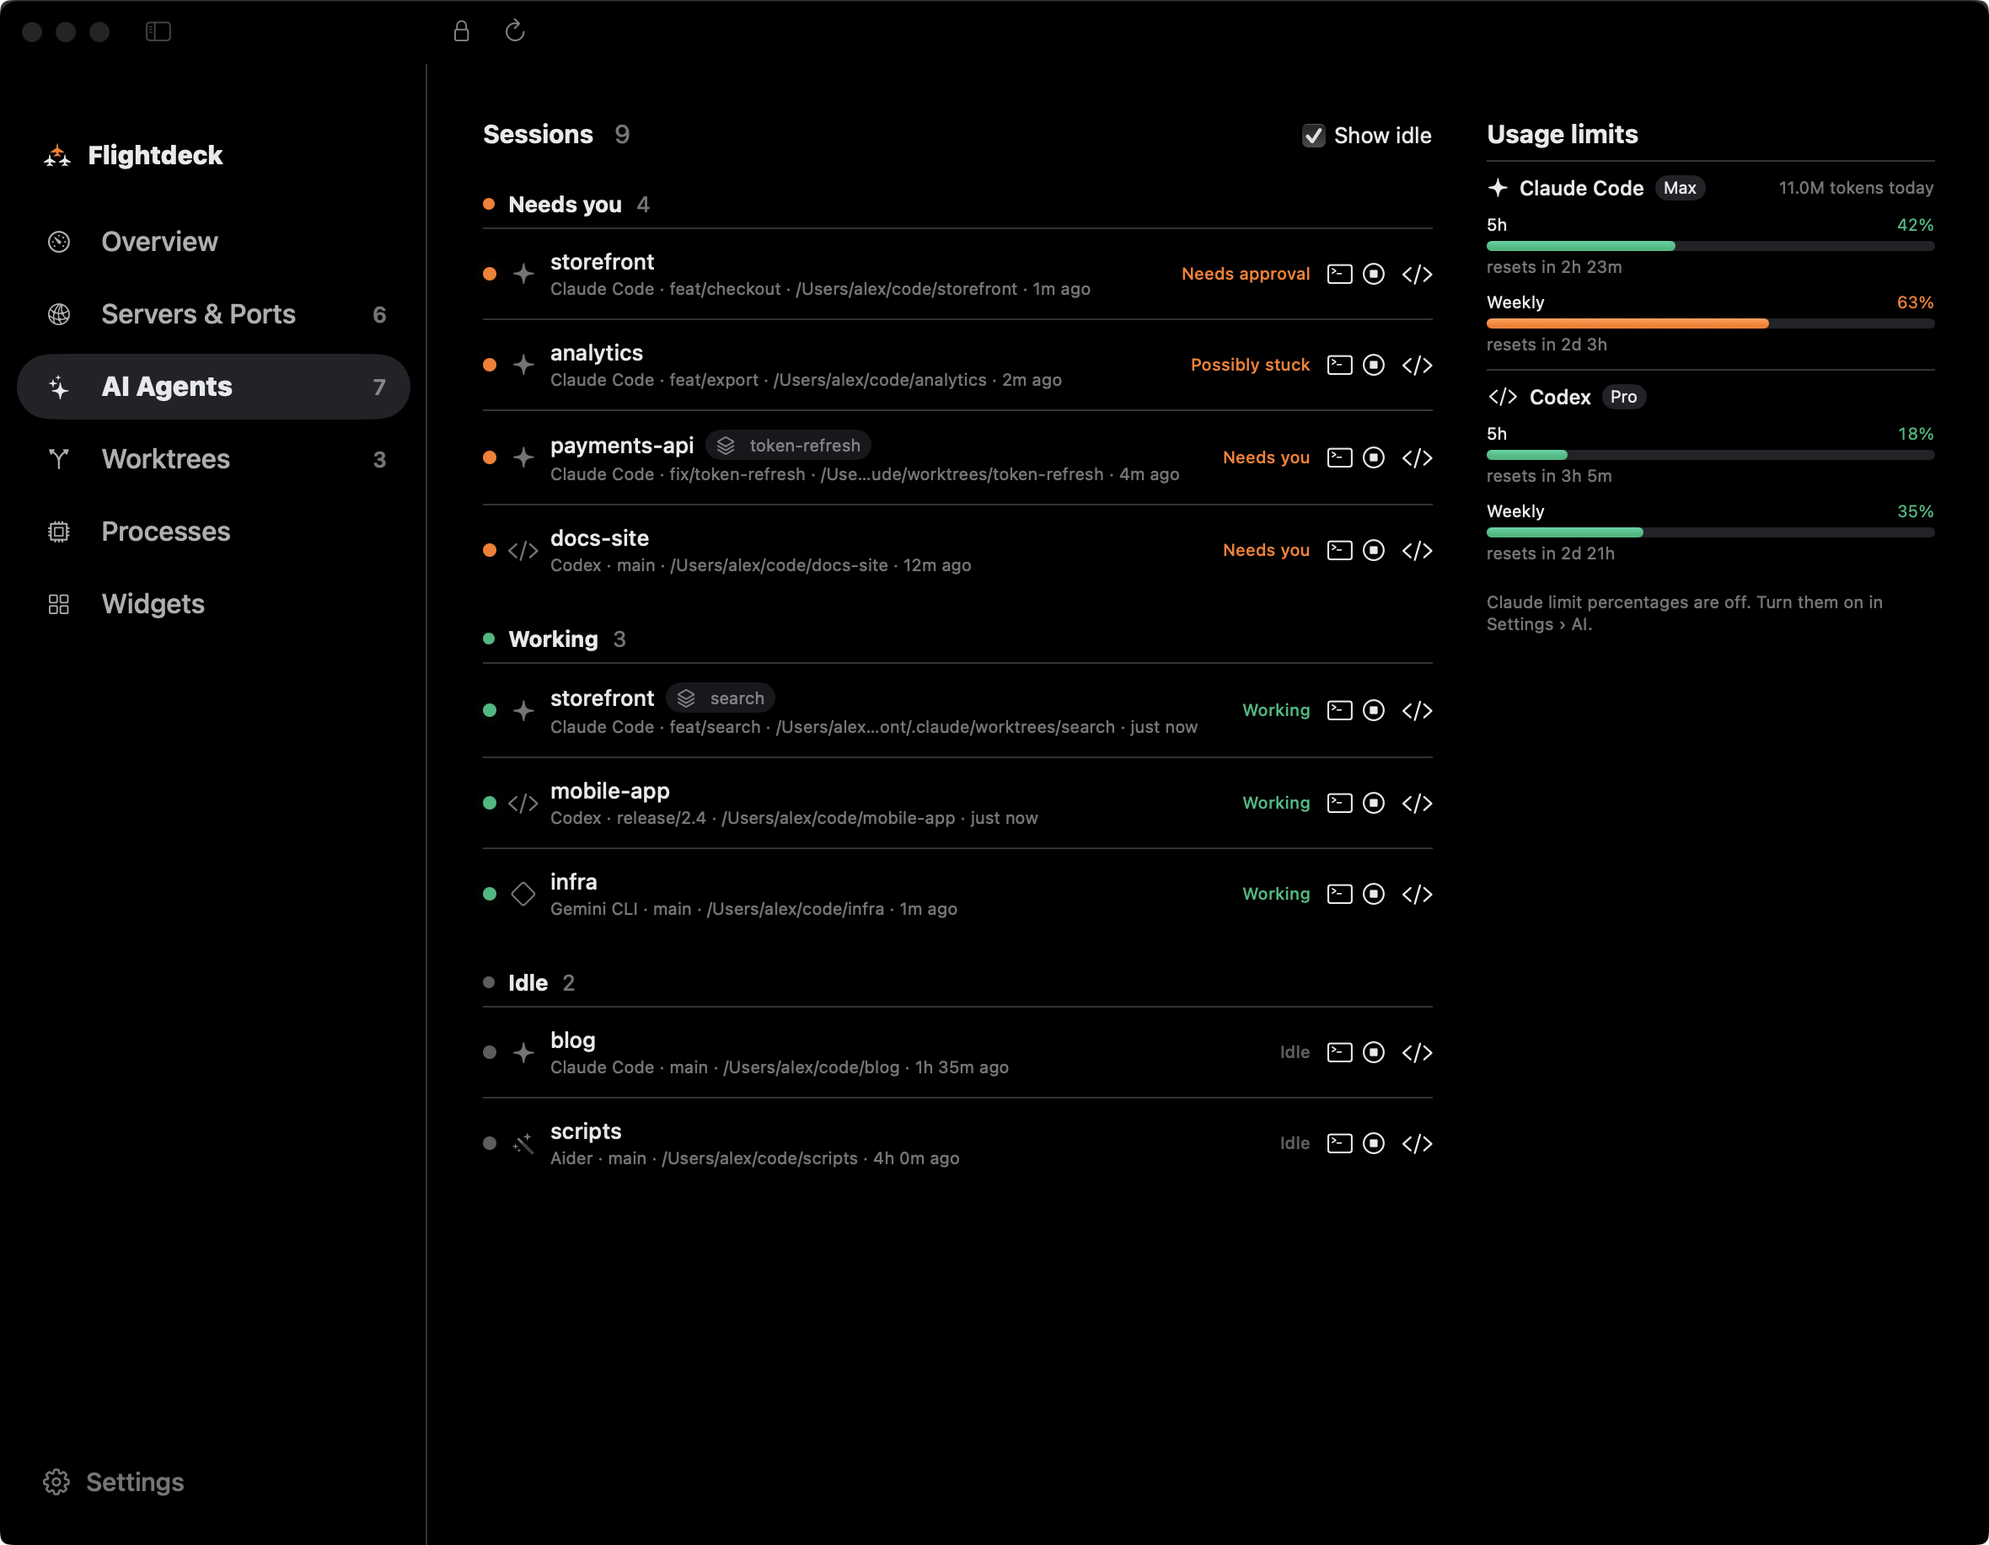
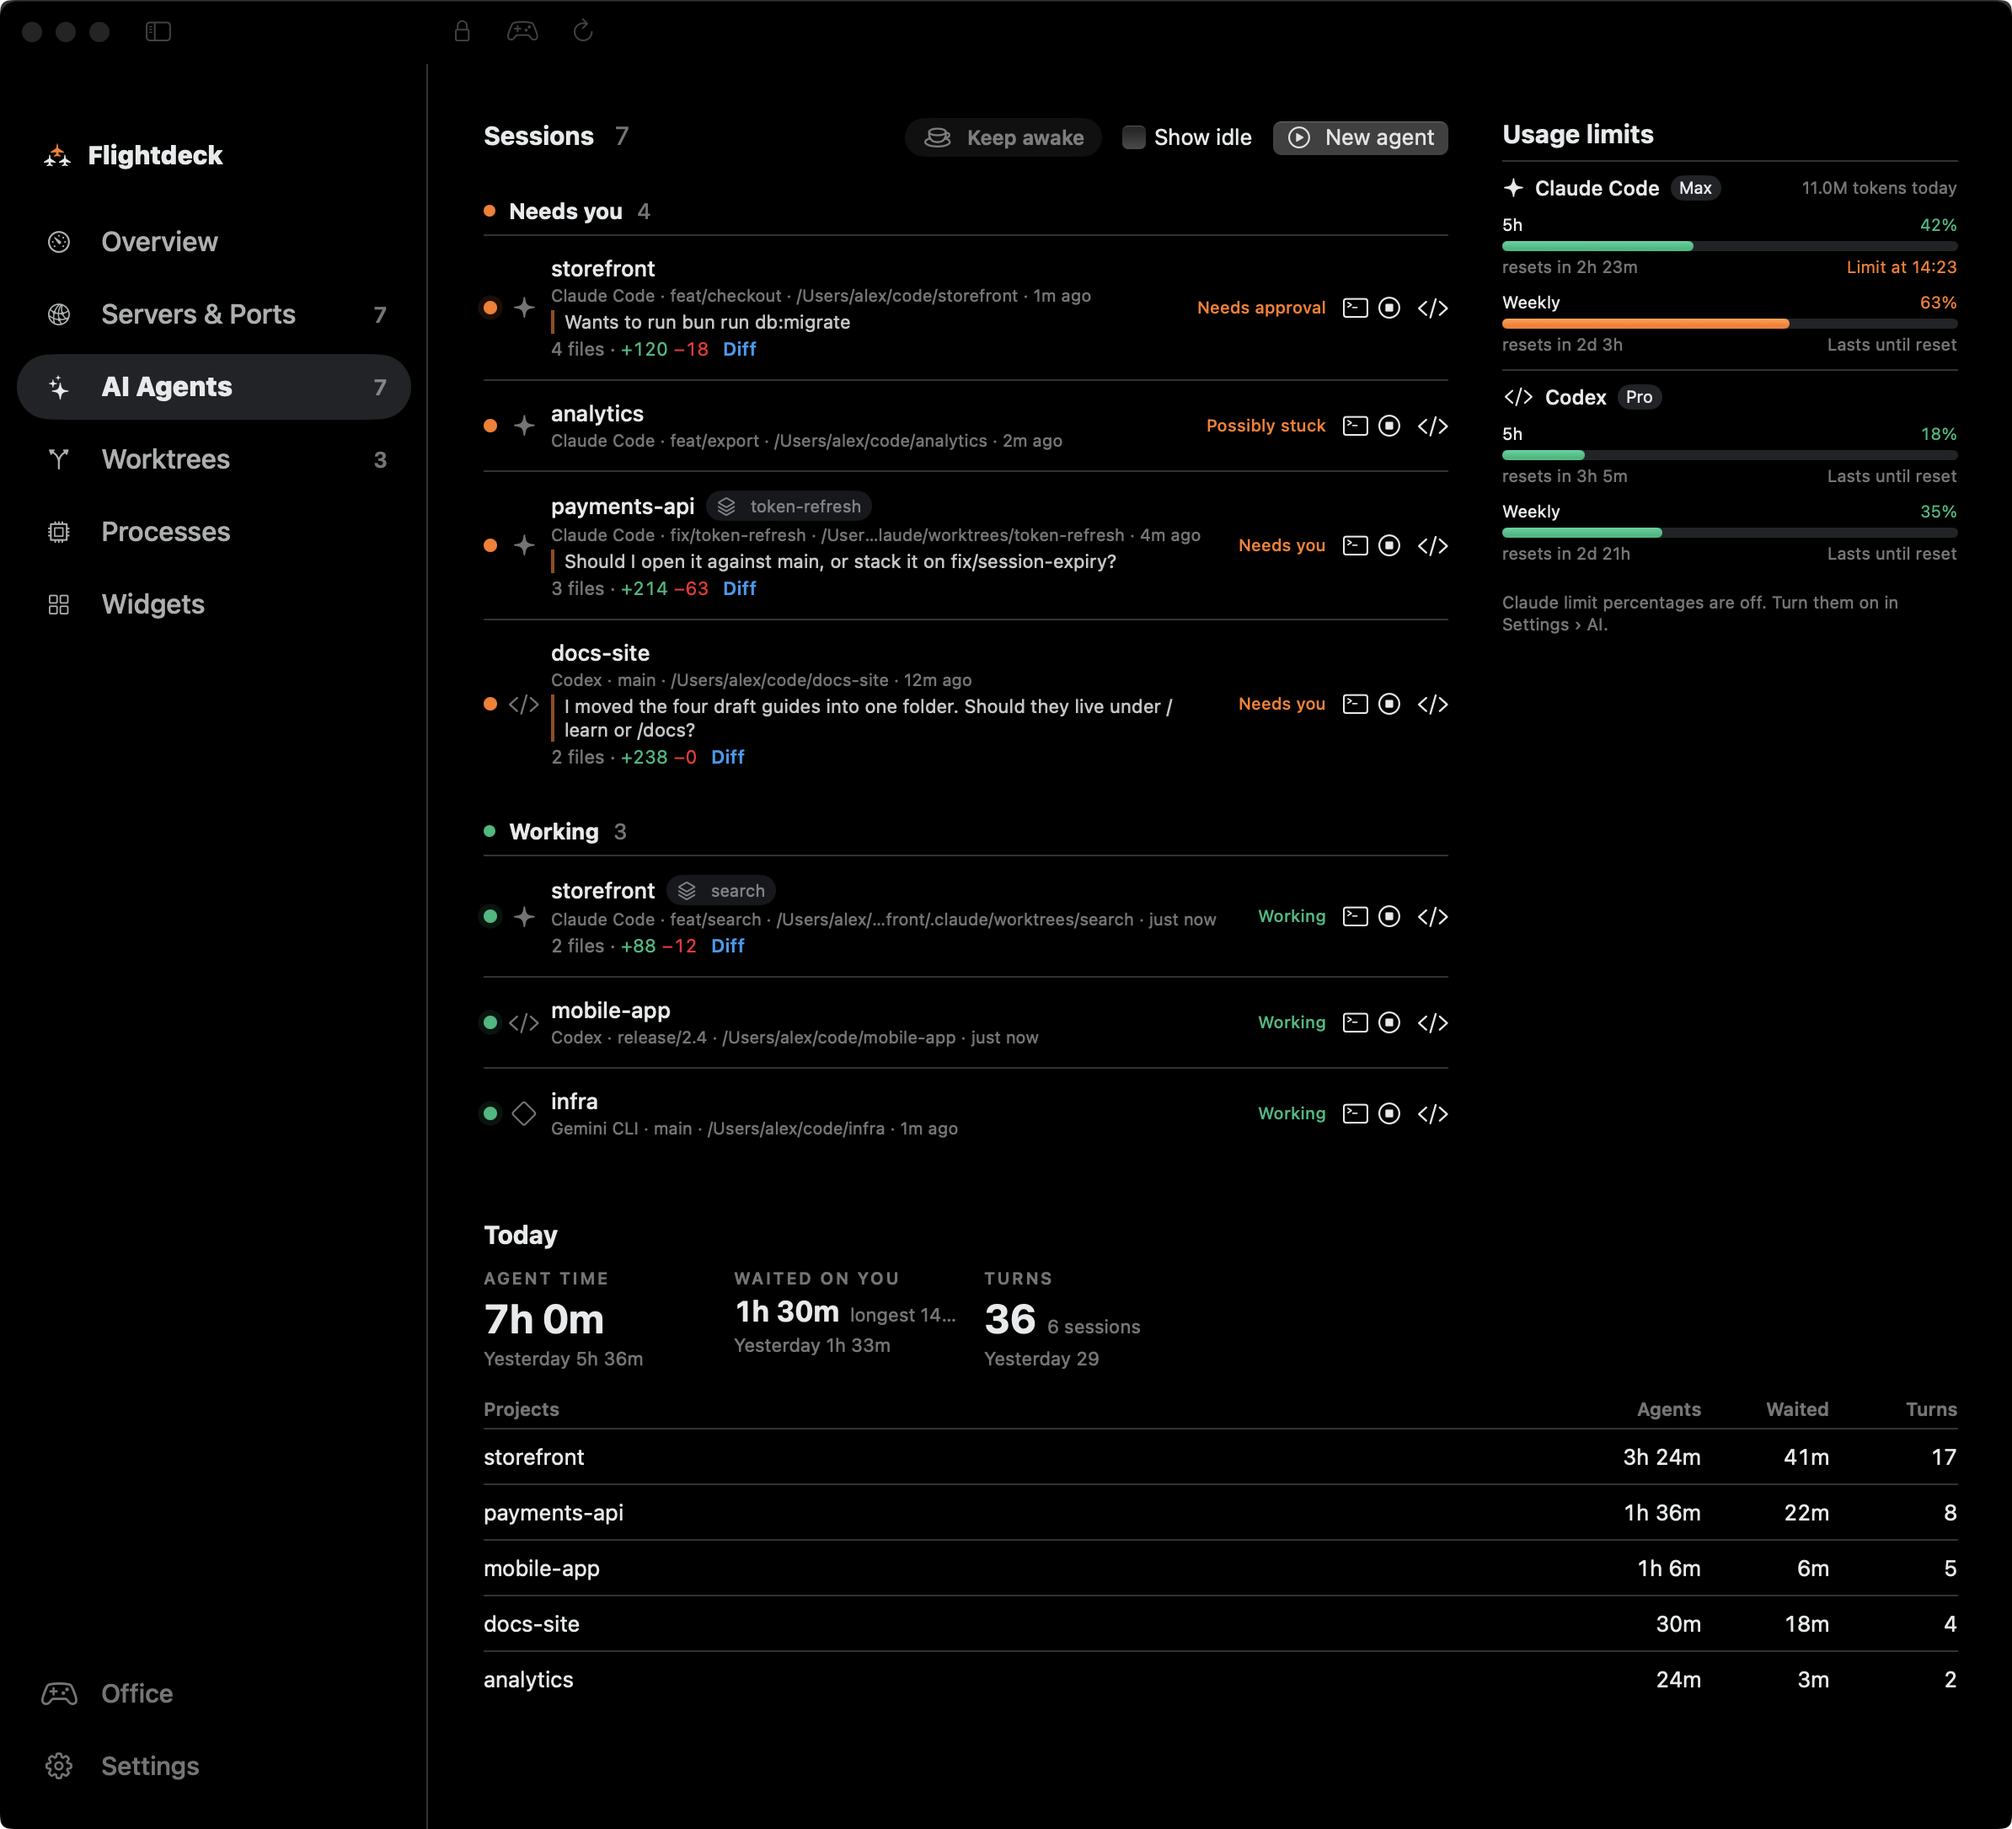
Retake screenshots with the new agent, server and worktree features
- FLIGHTDECK_PAGE picks the dashboard's first page in demo mode
- New 2x overview, agents, ports and worktrees shots in docs and site
- Move the site's overview pins to the new layout

diff --git a/site/app/page.tsx b/site/app/page.tsx
@@ -23,26 +23,26 @@ const PINS = [
   { x: 22, y: 20, title: "Who needs you", body: "The agent waiting on you leads, with a count of the others." },
   {
     x: 22,
-    y: 37.5,
+    y: 44.5,
     title: "Go to terminal",
     body: "Focuses that agent's own Ghostty, iTerm2, Terminal or tmux tab. Later sets it aside, Stop interrupts it. ⌃⌥N jumps to the next agent that needs you from any app.",
   },
-  { x: 73, y: 21, title: "A big clock", body: "Readable from across the room on a second screen." },
+  { x: 73, y: 23, title: "A big clock", body: "Readable from across the room on a second screen." },
   {
     x: 22,
-    y: 51.5,
+    y: 58.5,
     title: "System and limits",
     body: "CPU and memory, plus your default agent's 5h and week limits. Add disk, network, battery or Claude Code and Codex limits side by side.",
   },
   {
     x: 22,
-    y: 62,
+    y: 68,
     title: "Now playing",
     body: "What's playing in any player, with previous, play/pause, next and a volume slider for Spotify and Music. Collapse it, or System, when you need the room.",
   },
   {
     x: 22,
-    y: 80.5,
+    y: 86.5,
     title: "Needs you",
     body: "Every waiting agent: what it said or wants to run, its folder, branch, CPU and memory. Agents that look stuck get a badge with the reason. Hover a card and clear it until that agent does something new.",
   },
@@ -59,7 +59,7 @@ const FEATURE_ROWS = [
     label: "AI agents",
     title: "Every agent, one glance.",
     body: "Which folders Claude Code, Codex, Gemini CLI, Cursor Agent, opencode and Aider are working in, and whether each is working, waiting for approval, waiting for you or looks stuck. Go to terminal or stop any of them from its row. Token spend per project and model is there too if you turn it on.",
-    image: { src: "/screenshots/agents.png", alt: "AI agents page with usage limits", width: 1180, height: 917 },
+    image: { src: "/screenshots/agents.png", alt: "AI agents page with usage limits", width: 1194, height: 1085 },
   },
   {
     label: "Office",
@@ -77,13 +77,13 @@ const FEATURE_ROWS = [
     label: "Worktrees",
     title: "Clear out old worktrees.",
     body: "Every git worktree with its changes, ahead/behind, PR and the agent working in it. Clean ones with no agent, no open PR and no recent commits are marked stale, and one click cleans them up.",
-    image: { src: "/screenshots/worktrees.png", alt: "Worktrees page with stale worktrees and Clean up", width: 1180, height: 720 },
+    image: { src: "/screenshots/worktrees.png", alt: "Worktrees page with stale worktrees and Clean up", width: 1194, height: 1085 },
   },
   {
     label: "Dev servers",
     title: "Know what's on :3000.",
     body: "Every listening port mapped to its git project, branch and worktree, with the framework detected. Open it in the browser, editor or terminal, or stop it.",
-    image: { src: "/screenshots/ports.png", alt: "Servers and ports page grouped by project", width: 1180, height: 780 },
+    image: { src: "/screenshots/ports.png", alt: "Servers and ports page grouped by project", width: 1194, height: 1085 },
   },
   {
     label: "Menu bar",
@@ -169,8 +169,8 @@ export default function Home() {
               className="shot"
               src="/screenshots/overview.png"
               alt="Flightdeck overview with numbered labels: search and ask, who needs you, go to terminal, clock, system and limits, now playing, the Needs you list and pages"
-              width={1180}
-              height={1060}
+              width={1194}
+              height={1085}
               priority
             />
             {PINS.map((pin, index) => (

diff --git a/Sources/FlightdeckApp/Views/Dashboard/DashboardNavigation.swift b/Sources/FlightdeckApp/Views/Dashboard/DashboardNavigation.swift
@@ -1,3 +1,4 @@
+import Foundation
 import MonitorCore
 import Observation
 
@@ -12,7 +13,13 @@ enum DashboardDestination: Hashable {
 @MainActor
 @Observable
 final class DashboardNavigation {
-    var destination: DashboardDestination = .page(.overview)
+    var destination: DashboardDestination = DashboardNavigation.demoStartPage.map(DashboardDestination.page) ?? .page(.overview)
+
+    /// `FLIGHTDECK_PAGE=agents` with `FLIGHTDECK_DEMO=1` opens the dashboard on that page, for screenshots.
+    private static var demoStartPage: DashboardPage? {
+        guard DemoData.isEnabled else { return nil }
+        return ProcessInfo.processInfo.environment["FLIGHTDECK_PAGE"].flatMap(DashboardPage.init(rawValue:))
+    }
 
     func show(_ page: DashboardPage) {
         destination = .page(page)
